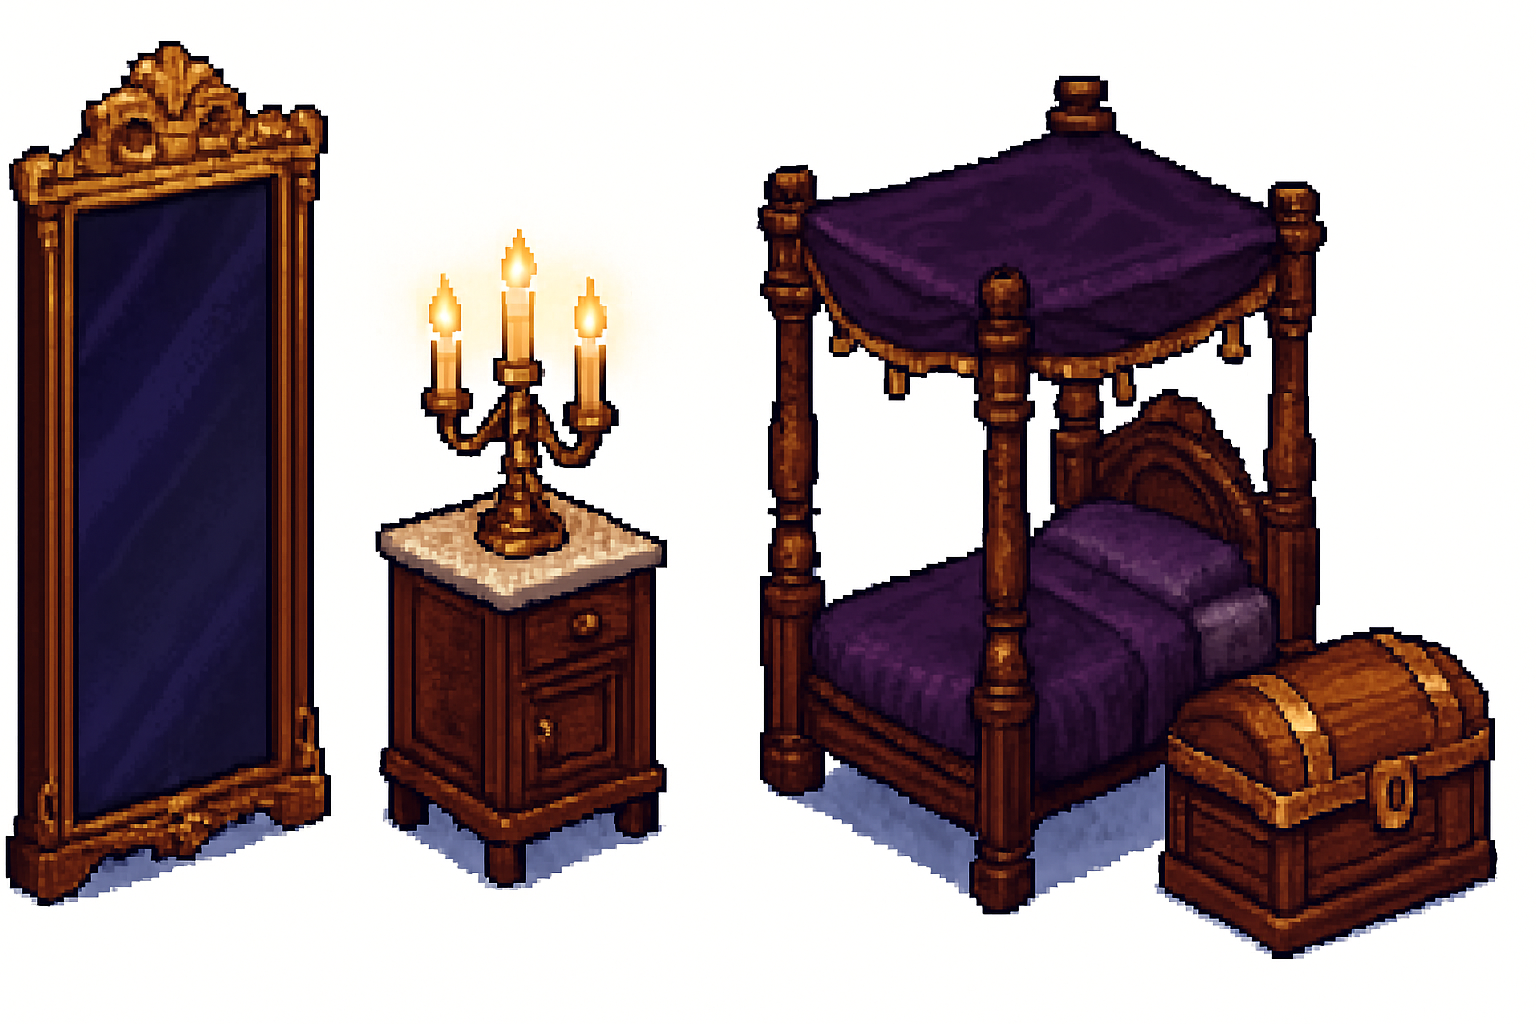
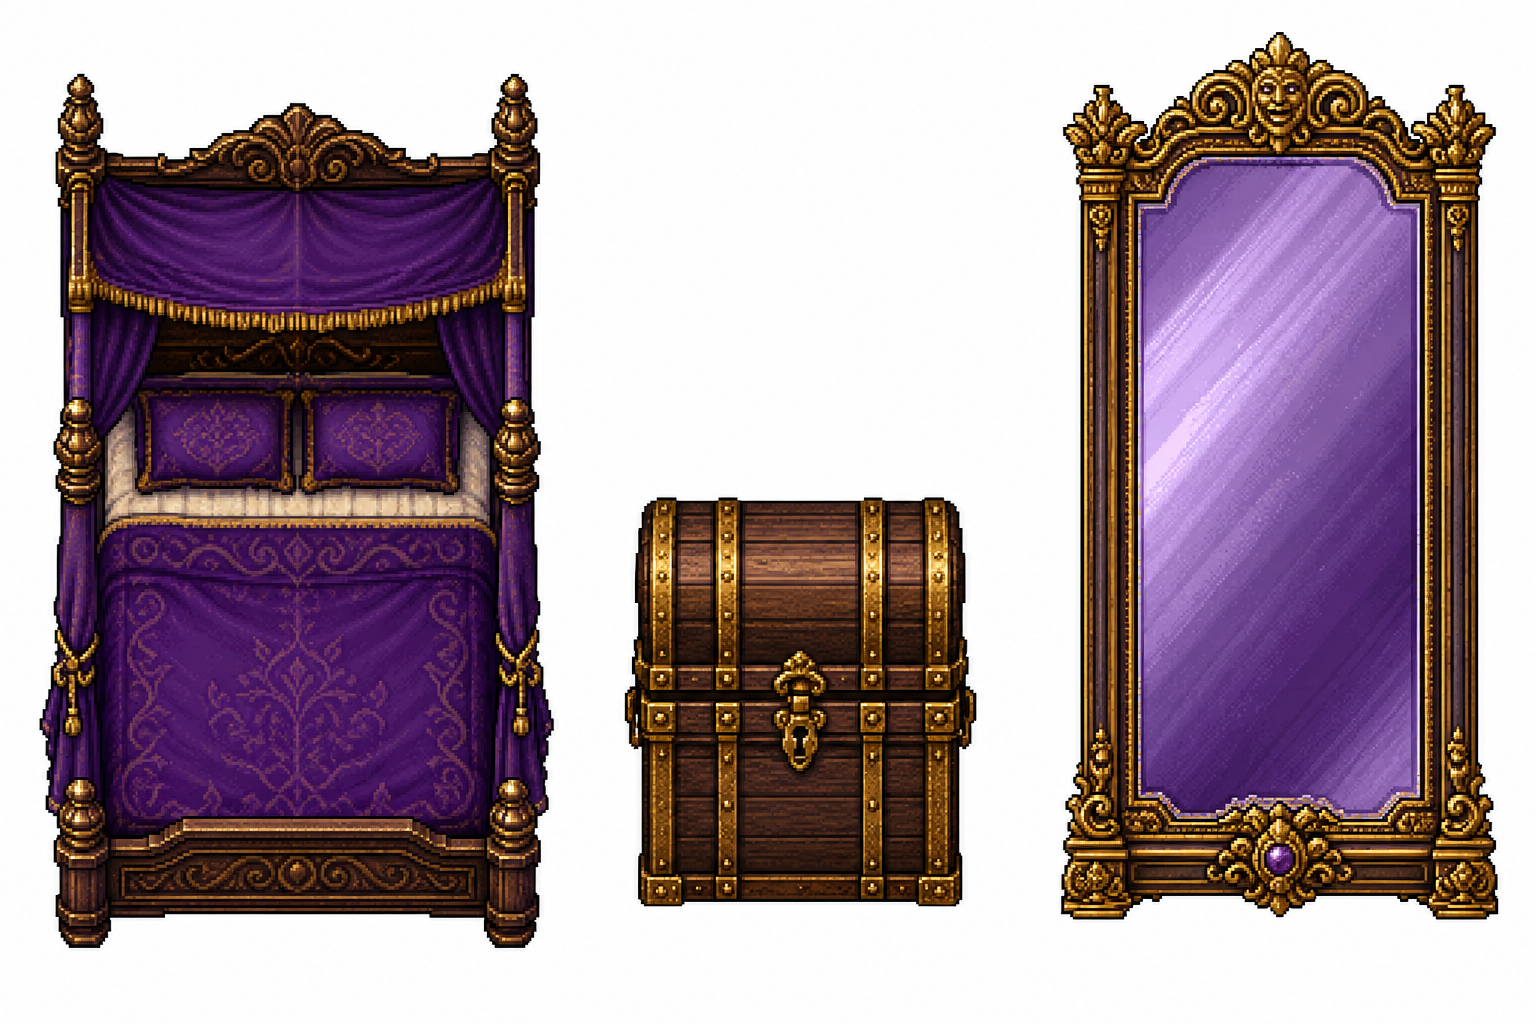
the-game: unstretch the bedroom's furniture and walls, cut bed/trunk/mirror separately, and fix the door a player could see and never reach
Every prop that carried an explicit w fighting its own art's aspect ratio is
gone: the back wall and balustrade now tile at native proportions (several
overlapping copies instead of 2-3 stretched panels), and the bed/trunk/mirror
are three separate props instead of one merged, distorted prop_bed_bed. Sleep
constants (bedSpot/bedClipY/wakeSpot/bedZone) are recomputed against the
regenerated, correctly-oriented bed art; verified live (climb in, get up)
against the room's actual wakeSpot, not an arbitrary test coordinate.

Also fixes two bugs found while verifying the bedroom -> Lounge crossing:

- fit_plate.py keyed a global near-white threshold to transparency, so a
  lighting highlight anywhere inside a floor plate's own art reads as
  background. Switched to a border-flood fill (same technique build_sheet.py
  already uses for sprite backgrounds): only white connected to the image's
  edge is keyed, so an interior highlight stays opaque. Didn't end up
  mattering for the bedroom specifically (its dip turned out to be genuinely
  border-connected), but it's a real bug in a shared tool and worth having
  fixed regardless.

- The regenerated floor's own bottom edge dips a few px right under the new
  east-wall door (fully open at y<=186, pinched to two slivers at y 188-190).
  approachPosition centres a door-crossing test on the exit box's own
  vertical middle, which landed exactly in that dip. Real gameplay never hit
[…]

diff --git a/games/the-game/story.js b/games/the-game/story.js
@@ -287,21 +287,29 @@ window.NEWSEY_STORY = (function () {
       // as the house back home rather than anywhere in Infinity, and it painted
       // a door on its right-hand wall that the map no longer uses.
       //
-      // THERE IS NO DOOR IN ANY WALL. You get here by walking UP through the
-      // Lounge's back wall, so you arrive at the near edge and you leave the
-      // same way you came in — down, through the gap in the balustrade. Same
-      // shape as the Anarchy Garden's gap in its low wall.
+      // The way out is the east wall's sidebreach (see exits, below) —
+      // straight into the Lounge's west door. The near-edge balustrade is
+      // NOT a way out any more: it used to have a gap for exactly that, and
+      // it read as a second exit that silently refused to open, so it's
+      // closed (see the rail props) now that the map moved the door east.
       //
       // bg-bedroom.png is the parquet and nothing else, so the walk mask is
       // its own silhouette: no floorPoly, no obstacles.
       playerStart: { x: 150, y: 150 },
       // Measured off art-src/bedroom_scene.png: she lies with her head on the
       // pillow up under the canopy, drawn clipped to above the quilt's edge.
-      bedSpot: { x: 224, y: 100 },
-      bedClipY: 108,
-      // Parquet at the near-left corner of the bed, clear of its footprint.
-      wakeSpot: { x: 174, y: 150 },
-      bedZone: { x: 182, y: 126, w: 88, h: 24 },
+      // Recomputed against the regenerated bed art (prop_bed_bed, cut alone
+      // this time, foot toward the viewer). bedSpot sits on the pillows —
+      // measured as a fraction of the CUT IMAGE itself (0.41 down from its
+      // top), not the scene, since that is what's actually drawn on screen.
+      bedSpot: { x: 161, y: 53 },
+      bedClipY: 65,
+      // On the rug at the bed's foot, clear of the bed's and the trunk's own
+      // footprints.
+      wakeSpot: { x: 161, y: 168 },
+      // The floor in front of the bed's foot and the trunk, where you stand
+      // and press UP to climb in.
+      bedZone: { x: 126, y: 120, w: 70, h: 26 },
       props: [
         // Ground cover first: flat, walked straight over, no footprint. The
         // scene has always had this rug; the first assembly of this room did
@@ -310,32 +318,46 @@ window.NEWSEY_STORY = (function () {
         // a floor is wider than it is deep. Without it the room gets a tall
         // narrow mat standing in the middle of the parquet.
         { art: "prop_bed_rug", x: 152, y: 142, h: 54, w: 120, flat: true },
-        // Measured off art-src/bedroom_scene.png, which is drawn the way every
-        // room in this game is drawn: ONE flat back wall across the top, floor
-        // a rectangle below it. There are NO SIDE WALLS — the scene has none,
-        // the Anarchy Garden has none, and the pair this room had were the
-        // whole reason its wainscot line would not meet at the corners.
-        // w overlaps its neighbour by a few px: the panel art carries a dark
-        // edge, and butted exactly they draw as three visible seams down the
-        // back wall.
-        { art: "prop_bed_wall", x: 53,  y: 102, h: 112, w: 116, behind: true, base: { w: 112, h: 8 } },
-        { art: "prop_bed_wall", x: 160, y: 102, h: 112, w: 116, behind: true, base: { w: 112, h: 8 } },
-        { art: "prop_bed_wall", x: 267, y: 102, h: 112, w: 116, behind: true, base: { w: 112, h: 8 } },
-        // the balustrade along the near edge, unbroken. It used to run in two
-        // pieces with a gap between them, from when this room's own near edge
-        // was the way out — the map moved that door to the east wall and left
-        // a break in the rail that led nowhere, which read as a second exit
-        // that silently refused to open. Closed with overlap, the same way
-        // the back wall's panels overlap to hide their own seams.
-        { art: "prop_bed_rail", x: 40,  y: 199, h: 30, w: 160, base: { w: 160, h: 10 } },
-        { art: "prop_bed_rail", x: 180, y: 199, h: 30, w: 160, base: { w: 160, h: 10 } },
-        // the furniture, at the numbers the composed scene draws it at
-        { art: "prop_bed_mirror",     x: 50,  y: 114, h: 96, base: { w: 32, h: 10 } },
-        { art: "prop_bed_nightstand", x: 116, y: 104, h: 50, base: { w: 22, h: 8 } },
-        // bed + trunk are one prop: they came off the sheet touching and no
-        // vertical cut separates them (the trunk stands in front of the bed's
-        // own right-hand post), which is also how the scene composes them.
-        { art: "prop_bed_bed", x: 226, y: 134, h: 118, w: 134, base: { w: 122, h: 18 } },
+        // The back wall, tiled at its OWN aspect ratio rather than stretched
+        // to cover fewer, wider panels — five copies at native proportions,
+        // each overlapping its neighbour by ~4px to hide the seam, instead of
+        // three copies stretched 1.75x wide. A single image asked to cover a
+        // span it wasn't drawn for reads as smeared brick and warped wallpaper
+        // — reported straight from a screenshot, and confirmed by checking the
+        // math: h=112 at this art's native aspect wants w=66, not the w=116
+        // this used to carry.
+        { art: "prop_bed_wall", x: -6,  y: 102, h: 112, behind: true, base: { w: 60, h: 8 } },
+        { art: "prop_bed_wall", x: 60,  y: 102, h: 112, behind: true, base: { w: 60, h: 8 } },
+        { art: "prop_bed_wall", x: 126, y: 102, h: 112, behind: true, base: { w: 60, h: 8 } },
+        { art: "prop_bed_wall", x: 192, y: 102, h: 112, behind: true, base: { w: 60, h: 8 } },
+        { art: "prop_bed_wall", x: 258, y: 102, h: 112, behind: true, base: { w: 60, h: 8 } },
+        // the balustrade along the near edge, unbroken, tiled the same way —
+        // native aspect, several copies, instead of two copies each stretched
+        // to 3.5x their own width (the worst offender: w=160 against a native
+        // w of 46 at this h). It used to run in two pieces with a gap between
+        // them too, from when this room's own near edge was the way out —
+        // the map moved that door to the east wall and left a break that led
+        // nowhere, which read as a second exit that silently refused to open.
+        { art: "prop_bed_rail", x: -4,  y: 199, h: 30, base: { w: 46, h: 10 } },
+        { art: "prop_bed_rail", x: 42,  y: 199, h: 30, base: { w: 46, h: 10 } },
+        { art: "prop_bed_rail", x: 88,  y: 199, h: 30, base: { w: 46, h: 10 } },
+        { art: "prop_bed_rail", x: 134, y: 199, h: 30, base: { w: 46, h: 10 } },
+        { art: "prop_bed_rail", x: 180, y: 199, h: 30, base: { w: 46, h: 10 } },
+        { art: "prop_bed_rail", x: 226, y: 199, h: 30, base: { w: 46, h: 10 } },
+        { art: "prop_bed_rail", x: 272, y: 199, h: 30, base: { w: 46, h: 10 } },
+        // The furniture, regenerated: the bed and mirror had been drawn at a
+        // tilted 3/4 product-shot angle (reported from a screenshot — the
+        // bed's open foot faced off to the lower-left instead of the viewer,
+        // which is why the sleep interaction read as broken) instead of this
+        // room's top-down camera. Fixed at the source — see the "camera"
+        // field in rooms/bedroom.json — and cut as three separate objects
+        // instead of one bed+trunk merger, so nothing here needs an explicit
+        // w that fights the art's own aspect ratio. Only h is given; width
+        // follows the art.
+        { art: "prop_bed_mirror", x: 62,  y: 88,  h: 74, base: { w: 30, h: 8 } },
+        { art: "prop_bed_nightstand", x: 96, y: 88, h: 40, base: { w: 20, h: 8 } },
+        { art: "prop_bed_bed",   x: 161, y: 112, h: 99, base: { w: 78, h: 14 } },
+        { art: "prop_bed_trunk", x: 161, y: 148, h: 30, base: { w: 24, h: 10 } },
       ],
       // THE LOUNGE IS EAST OF THIS ROOM, so the way out is a door in the EAST
       // wall: you walk right out of here and come in the Lounge's west door.
@@ -347,11 +369,17 @@ window.NEWSEY_STORY = (function () {
       // exactly this shape of art and use a plain breach in the wall instead
       // — drawSideBreach in app.js, a code-drawn notch, not a picture.
       exits: [
-        // y 148-190: below the four-poster's footprint (which ends at 143) and
+        // y 148-184: below the four-poster's footprint (which ends at 143) and
         // above the balustrade's (which starts at 194). Both would otherwise
         // sit on this trigger, and a footprint on a doorway is a door you can
-        // see and cannot reach.
-        { x: 276, y: 148, w: 40, h: 42, to: "lounge", link: "westDoor", drawn: "sidebreach" }
+        // see and cannot reach. Shorter than that span allows: the regenerated
+        // floor's own bottom edge dips a few px right under this door (measured
+        // off walk-bedroom.png — a fully open row at y<=186, pinched to two
+        // slivers at y 188-190), so the box is centred at y=166 (feet at 184),
+        // clear of the dip, instead of at the old centre of 169 (feet at 187,
+        // inside it) — which read as a door you could walk toward and never
+        // reach.
+        { x: 276, y: 148, w: 40, h: 36, to: "lounge", link: "westDoor", drawn: "sidebreach" }
       ],
       npcs: [
         {

diff --git a/games/the-game/sw.js b/games/the-game/sw.js
@@ -1,6 +1,6 @@
 importScripts("../../shared/sw-core.js");
 
-GCRegisterServiceWorker("the-game-v57", [
+GCRegisterServiceWorker("the-game-v58", [
   "./",
   "./index.html",
   "./style.css",

diff --git a/.github/art/fit_plate.py b/.github/art/fit_plate.py
@@ -22,6 +22,56 @@ W, H = 320, 200
 WHITE_TOL = 26
 
 
+# A GLOBAL WHITE THRESHOLD KEYS A HIGHLIGHT AS IF IT WERE THE BACKDROP.
+#
+# The bedroom's floor plate came back with a stray near-white sheen on the
+# parquet — a lighting highlight, not the flat-white sheet it was drawn on —
+# and a plain "is this pixel pale enough" test can't tell the two apart: both
+# read as background, so the highlight punched a transparent hole straight
+# through the middle of the walkable floor. It was invisible in the plate
+# image itself and only showed up as a doorway you could walk toward and
+# never reach — canStand failed over the hole exactly the way it fails past
+# the edge of the room.
+#
+# The fix already existed for sprite sheets (build_sheet.py's
+# key_background): flood the near-white pixels IN from the four edges only.
+# A highlight sitting inside the shape, not touching a border, never gets
+# reached by the flood and stays opaque. Done at full resolution this is a
+# slow pure-Python BFS over a multi-megapixel image, so the connectivity pass
+# runs on a small downsample (connectivity doesn't need pixel precision) and
+# the result is scaled back up to gate the full-resolution near-white mask.
+def flood_key_white(rgb, tol=WHITE_TOL, work_max=480):
+    h, w = rgb.shape[:2]
+    near_white_full = (rgb.astype(np.int16) > 255 - tol).all(axis=2)
+
+    k = min(1.0, work_max / max(h, w))
+    sw, sh = max(1, int(w * k)), max(1, int(h * k))
+    small = np.asarray(
+        Image.fromarray(near_white_full).resize((sw, sh), Image.NEAREST)
+    )
+
+    seen = np.zeros_like(small)
+    seen[0, :] = small[0, :]; seen[-1, :] = small[-1, :]
+    seen[:, 0] = small[:, 0]; seen[:, -1] = small[:, -1]
+    # Iterative dilation restricted to `small`, from the border inward, until
+    # it stops growing — a vectorised flood fill with no per-pixel Python loop.
+    while True:
+        grown = seen.copy()
+        grown[1:, :] |= seen[:-1, :]
+        grown[:-1, :] |= seen[1:, :]
+        grown[:, 1:] |= seen[:, :-1]
+        grown[:, :-1] |= seen[:, 1:]
+        grown &= small
+        if np.array_equal(grown, seen):
+            break
+        seen = grown
+
+    seen_full = np.asarray(
+        Image.fromarray(seen).resize((w, h), Image.NEAREST)
+    )
+    return near_white_full & seen_full
+
+
 # A PLATE IS LIT ON ITS OWN, AND THE ROOM IS NOT.
 #
 # Pass 2 asks for a floor texture on flat white, so the generator lights it
@@ -74,8 +124,11 @@ def main():
     arr = np.asarray(im).copy()
     alpha = arr[..., 3]
     if (alpha < 8).mean() <= 0.02:
-        # no real alpha — the generator gave us flat white, so key it
-        near_white = (arr[..., :3].astype(np.int16) > 255 - WHITE_TOL).all(axis=2)
+        # no real alpha — the generator gave us flat white, so key it. Only
+        # white connected to the image's own border is the backdrop; a
+        # highlight sitting inside the floor stays opaque (see
+        # flood_key_white above).
+        near_white = flood_key_white(arr[..., :3])
         alpha = np.where(near_white, 0, 255).astype(np.uint8)
         arr[..., 3] = alpha
 
